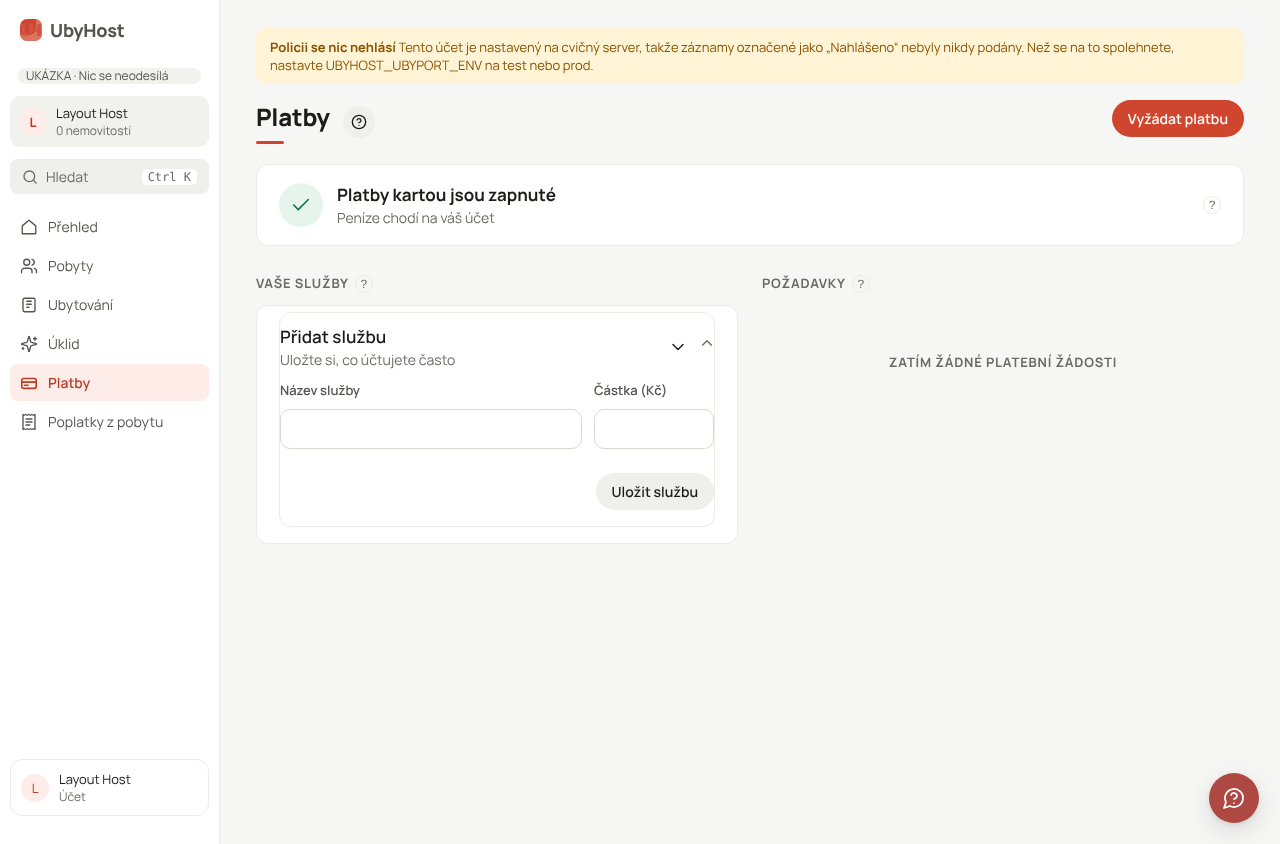
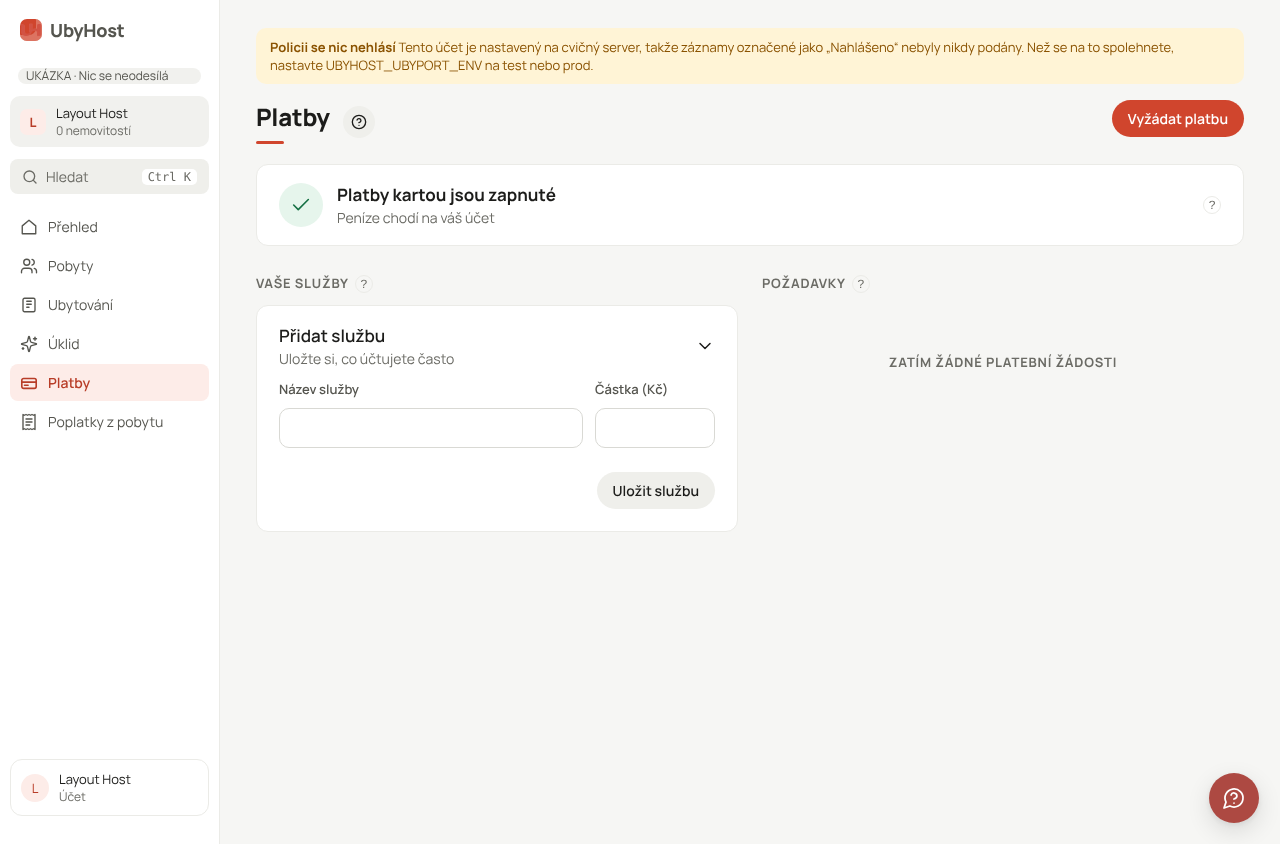
Payments: flatten the Add a service row (no inner card, single chevron, fields inside) (#781)
Claude-Session: https://claude.ai/code/session_01Cjmb7YLMkbQ6VkCY4Rqa8r

Changed region(s): [[0.2188, 0.3697, 0.3438, 0.4929], [0.4688, 0.4313, 0.5312, 0.4929], [0.4688, 0.5545, 0.5312, 0.5853]]

diff --git a/App/app/static/app2.css b/App/app/static/app2.css
@@ -2383,6 +2383,7 @@ body.v2 .payments-row+.payments-row,body.v2 .payments-row+.payments-add{border-t
 body.v2 .payments-row form,body.v2 .payments-acts form{margin:0}body.v2 .payments-mini{display:inline-flex;align-items:center;min-height:44px;padding:0 16px;border-radius:999px;border:1.5px solid var(--ink);background:#fff;color:var(--ink);font:inherit;font-size:14px;font-weight:700;white-space:nowrap;cursor:pointer}
 body.v2 .payments-add>summary{list-style:none;cursor:pointer}body.v2 .payments-add>summary::-webkit-details-marker{display:none}
 body.v2 .payments-add[open]>summary svg{transform:rotate(90deg)}body.v2 .payments-add-form{padding:0 0 16px}
+body.v2 .payments-add{background:none;border:0;border-radius:0;margin:0}body.v2 .payments-add>summary{padding:12px 0;min-height:56px}body.v2 .payments-add>summary::before,body.v2 .payments-add>summary::after{content:none}body.v2 .payments-add .ui-field input{width:100%;box-sizing:border-box}
 body.v2 .payments-add-grid{display:grid;grid-template-columns:minmax(0,1fr) 120px;gap:12px}body.v2 .payments-add-form .ui-form-actions{display:flex;margin-top:12px}
 body.v2 .payments-page .card.stay{display:flex;flex-wrap:wrap;align-items:center;gap:12px 16px;padding:16px;margin:0 0 14px}body.v2 .payments-page .card.stay .in{flex:1;min-width:0;display:flex;flex-direction:column;align-items:flex-start}
 body.v2 .payments-page .card.stay .in b{font-size:17px;font-weight:700;max-width:100%;white-space:nowrap;overflow:hidden;text-overflow:ellipsis}body.v2 .payments-page .card.stay .in small{color:var(--ink3);font-size:14px}

diff --git a/App/app/templates/base.html b/App/app/templates/base.html
@@ -19,7 +19,7 @@
   <link rel="preload" href="/static/fonts/Manrope-latin.woff2?v=20261101-0495" as="font" type="font/woff2" crossorigin>
   {% if v2 | default(false) %}
   <link rel="stylesheet" data-turbo-track="reload" href="/static/tokens.css?v=20261103-0920">
-  <link rel="stylesheet" data-turbo-track="reload" href="/static/app2.css?v=20261104-0946g">
+  <link rel="stylesheet" data-turbo-track="reload" href="/static/app2.css?v=20261104-addsvc2">
   {% if show_nav | default(true) %}<link rel="stylesheet" data-turbo-track="reload" href="/static/command.css?v=20261103-0935">{% endif %}
   {% else %}
   <link rel="stylesheet" data-turbo-track="reload" href="/static/tokens.css?v=20261103-0920">
